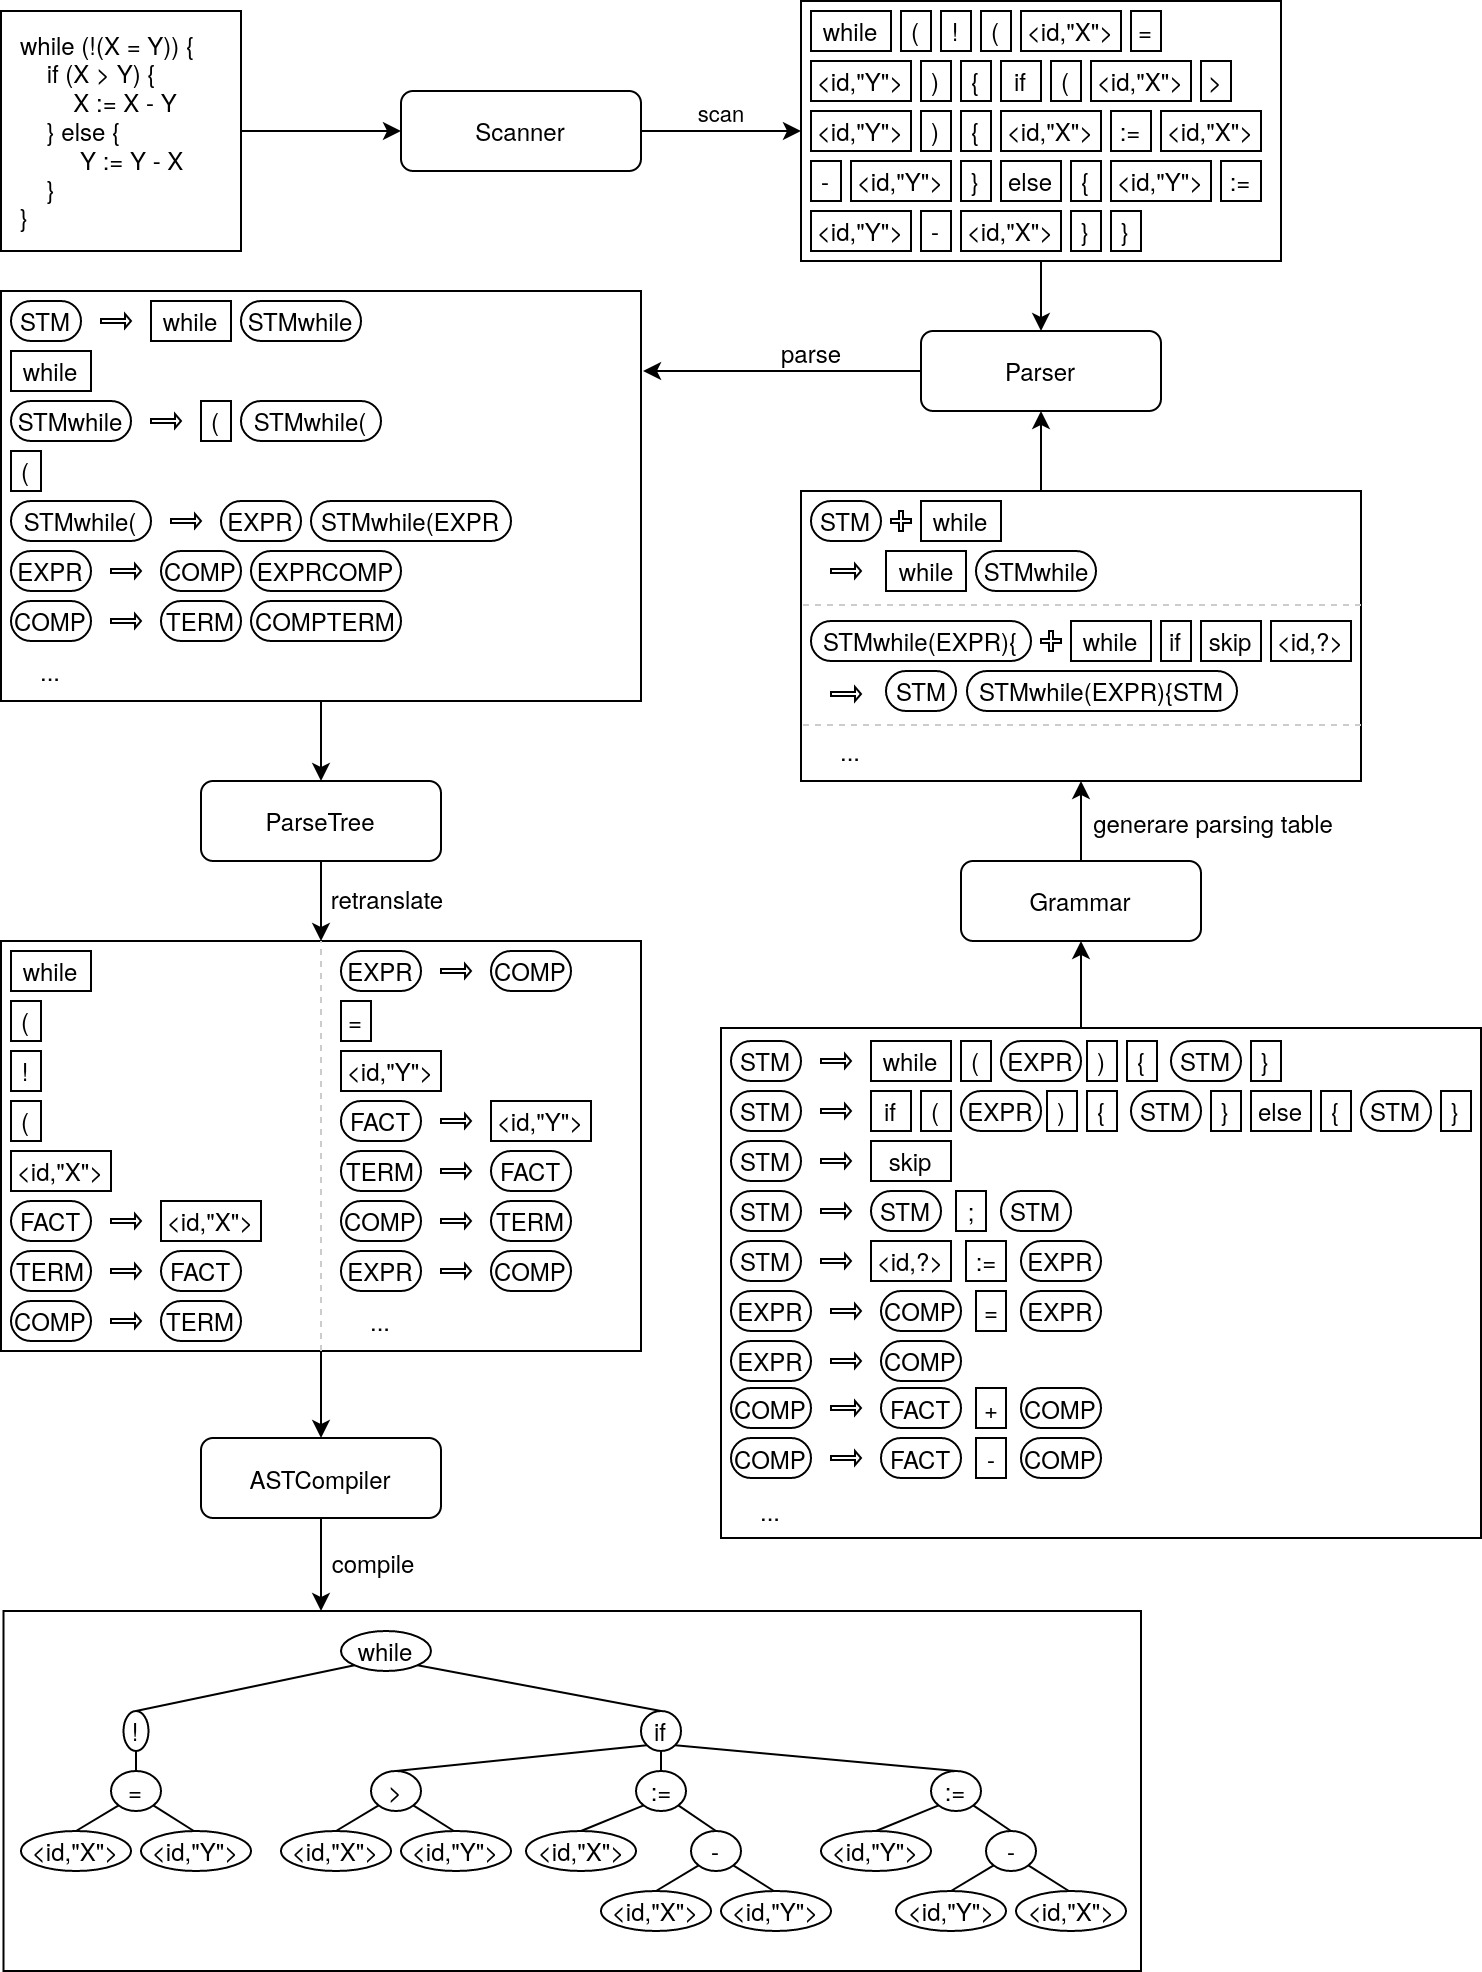
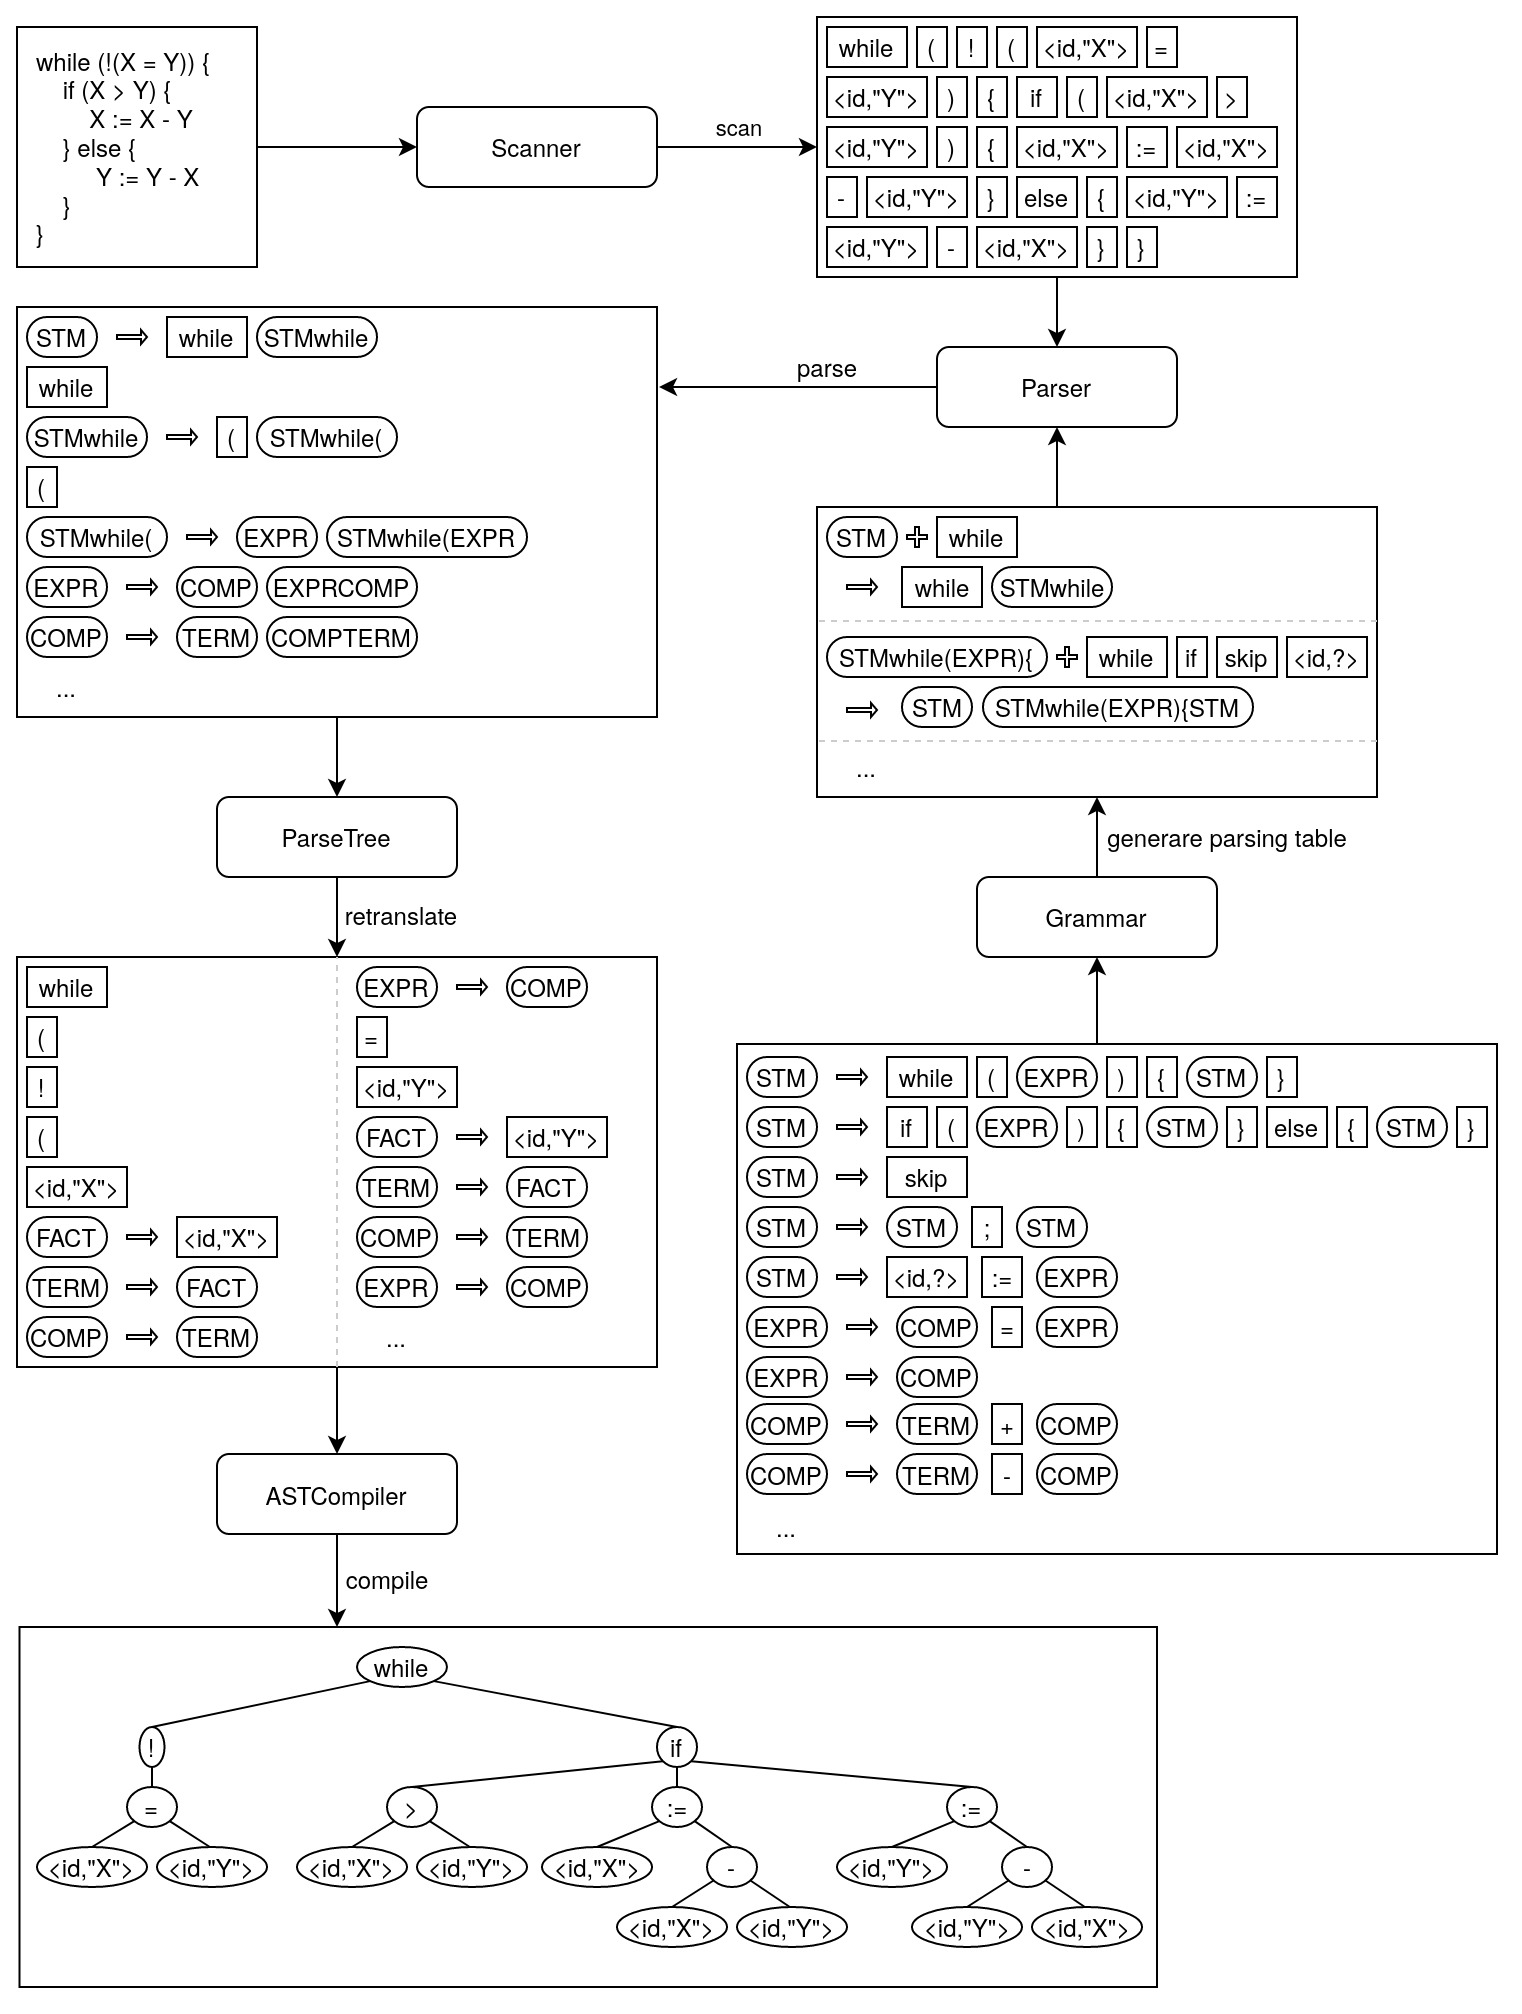
Started with a getting started section.

diff --git a/vvhile/frontend/Parser.java b/vvhile/frontend/Parser.java
@@ -1,15 +1,10 @@
 package vvhile.frontend;
 
-import java.io.IOException;
-import java.lang.reflect.Field;
 import vvhile.frontend.Scanner.ScanObject;
 import java.util.LinkedList;
 import java.util.List;
 import java.util.Stack;
 import vvhile.basic.language.BasicRuleSet;
-import vvhile.basic.language.BasicTokens;
-import vvhile.basic.language.IntegerScanner;
-import vvhile.basic.language.StringScanner;
 import static vvhile.frontend.Token.EOF;
 import vvhile.intrep.ASTCompiler;
 import vvhile.intrep.ASTElement;
@@ -129,8 +124,10 @@ public class Parser {
                 Rule rule = parsingTable.getRule(nonTerminal, nextToken);
                 // if there isn't any, the input does not match the grammar
                 if (rule == null) {
-                    messages.add(new Message(Message.ERROR, "No applicable Rule found! \n   Current Nonterminal is "
-                            + nonTerminal + " and next Token is \"" + nextToken + "\".",
+                    messages.add(new Message(Message.ERROR, "No applicable Rule found!\n"
+                            + "   Expected " + parsingTable.getPossibleTokensFor(nonTerminal) + "\n"
+                            + "   but next Token is \"" + nextToken + "\".\n"
+                            + "   Current Nonterminal is " + nonTerminal + ".",
                             scanObject.getLine(), scanObject.getPositionInLine()));
                     return false;
                 }

diff --git a/getting started/modify_grammar.md b/getting started/modify_grammar.md
@@ -1,0 +1,45 @@
+# Modifying the grammar
+
+The grammar as given by the BasicRuleSet class is very simple when it comes to the five basic rules for creating statements. Yet, one thing is a bit unfamiliar when writen actual code in this language: There is a semicolon between any two consecutive statements. Usually there is a semicolon after every line of instruction. In this these are exactly the assignments and skip.
+
+To change the grammar resemble the more familiar style we have to perform the following modification.
+
+![](../images/modify_grammar.jpg)
+
+To achieve this in code, we have to do manipulate the following lines in the BasicRuleSet class:
+```java
+    private static final Rule STM_ASSIGN = new Rule(STM, /* -> */ ID, ASSIGN, EXPR);
+    private static final Rule STM_SKIP = new Rule(STM, /* -> */ SKIP);
+    private static final Rule STM_COMPOSITION = new Rule(STM, /* -> */ STM, SEMICOLON, STM);
+```
+Change them to:
+```java
+    private static final Rule STM_ASSIGN = new Rule(STM, /* -> */ ID, ASSIGN, EXPR, SEMICOLON);
+    private static final Rule STM_SKIP = new Rule(STM, /* -> */ SKIP, SEMICOLON);
+    private static final Rule STM_COMPOSITION = new Rule(STM, /* -> */ STM, STM);
+```
+
+These changes apply to the grammar. In order for the compiler to work properly, we have to adjust the so-called statement builders as well. In the constructor change the lines
+```java
+        addRule(STM_ASSIGN, new StatementBuilder(
+                args -> new Statement.Assignment((Expression.Variable) args[0], (Expression) args[2]),
+                Token.Identifier.class, ASSIGN, Expression.class));
+        addRule(STM_SKIP, new StatementBuilder(args -> new Statement.Skip(), SKIP));
+        addRule(STM_COMPOSITION, new StatementBuilder(
+                args -> new Statement.Composition((Statement) args[0], (Statement) args[2]),
+                Statement.class, SEMICOLON, Statement.class));
+```
+to
+```java
+        addRule(STM_ASSIGN, new StatementBuilder(
+                args -> new Statement.Assignment((Expression.Variable) args[0], (Expression) args[2]),
+                Token.Identifier.class, ASSIGN, Expression.class, SEMICOLON));
+        addRule(STM_SKIP, new StatementBuilder(args -> new Statement.Skip(), SKIP, SEMICOLON));
+        addRule(STM_COMPOSITION, new StatementBuilder(
+                args -> new Statement.Composition((Statement) args[0], (Statement) args[1]),
+                Statement.class, Statement.class));
+```
+
+Make sure to change `args[2]` to `args[1]` for the composition creation. This has to be done because there is no more semicolon between the consecutive statements which would usually be `args[1]`.
+
+After these changes have been done, the compiler works for the modified grammar. Internally the parsing process might be done very differently, but this is invisible to us from this perspective. In particular the resulting intermediate representation of the compiled code does not change at all.

diff --git a/getting started/README.md b/getting started/README.md
@@ -1,0 +1,5 @@
+# Getting started
+
+This is a collection of examples to getting used to working within this project.
+
+[Modifying the predefined grammar](modify_grammar.md)
